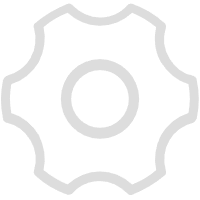
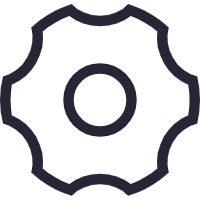
theme

Changed region(s): [[0.0, 0.0, 1.0, 0.99], [0.3, 0.27, 0.72, 0.69]]

diff --git a/src/views/home/index.vue b/src/views/home/index.vue
@@ -251,7 +251,7 @@ export default {
         this.isThree = 1;
       }
       if (!this.ros.isConnected) {
-        this.isShow = 0;
+        // this.isShow = 0;
         this.$message.error('The robot is not connected. Please check the connection status before proceeding.');
       }
     },
@@ -591,12 +591,15 @@ export default {
       justify-content: center;
       align-items: center;
       cursor: pointer;
-      background: rgba(255, 255, 255, 0.103);
+      // background: rgba(0, 0, 0, 0.075);
+      background: #cccccc30;
+      // background: rgba(255, 255, 255, 0.103);
       border-radius: 5px;
       margin: 1px;
 
       &:hover {
-        background: rgba(255, 255, 255, 0.164);
+        background: #cccccc50;
+        // background: rgba(255, 255, 255, 0.164);
       }
 
       i {
@@ -788,6 +791,7 @@ export default {
   width: 100%;
   height: 250px;
   z-index: 1000;
+  color: #e9e9e9;
 
   .el-icon-close {
     position: absolute;

diff --git a/src/App.vue b/src/App.vue
@@ -145,7 +145,7 @@ export default {
     connect() {
       var _this = this;
       this.ros = new ROSLIB.Ros({ url: "ws://" + this.ip + ":9090" });
-      //  this.ros = new ROSLIB.Ros({ url: "ws://192.168.8.25:9090" }); // 服务器
+      //  this.ros = new ROSLIB.Ros({ url: "ws://192.168.8.40:9090" }); // 服务器
       // this.ros = new ROSLIB.Ros({ url: "ws://10.168.5.247:9090" }); 
 
       this.$store.dispatch("ros/getRos", this.ros);
@@ -345,7 +345,7 @@ export default {
   background-size: cover;
 } */
 
-#app {
+/* #app { */
   /* position: absolute;
   top: 0;
   left: 0;
@@ -354,6 +354,6 @@ export default {
   background: rgba(255, 255, 255, 0.123);
   -webkit-backdrop-filter: blur(15px);
   backdrop-filter: blur(15px); */
-  color: #dddddd;
-}
+  /* color: #dddddd; */
+/* } */
 </style>

diff --git a/src/views/layout/index.vue b/src/views/layout/index.vue
@@ -101,11 +101,16 @@ export default {
 }
 
 .el-menu.el-menu--horizontal {
+  
   border-bottom: solid 1px #66b1ff !important;
+  a{
+    color: #0e0e0eec !important;
+  }
 }
 
 .el-menu--horizontal>.el-menu-item:not(.is-disabled):focus, .el-menu--horizontal>.el-menu-item:not(.is-disabled):hover, .el-menu--horizontal>.el-submenu .el-submenu__title:hover {
-    background-color: #ffffff85 !important;
+    background-color: #3994fc85 !important;
+    // background-color: #222222 !important;
 }
 .el-drawer__header {
   font-size: 18px;

diff --git a/src/store/modules/setting.js b/src/store/modules/setting.js
@@ -5,7 +5,9 @@ const state = {
   tagShow: getCache('TAG_SHOW') == null ? true : getCache('TAG_SHOW'),
   settingVisible: false,
   layout: getCache('LAYOUT') || 'inline',
-  theme: getCache('THEME') || 'black'
+  // theme: getCache('THEME') || 'black',
+  theme: getCache('THEME') || 'white'
+  // theme: getCache('THEME') || 'light'
 };
 
 const mutations = {

diff --git a/src/views/configure/ros_paramcfg.vue b/src/views/configure/ros_paramcfg.vue
@@ -393,7 +393,8 @@ export default {
   margin: 15px auto;
   padding: 30px 40px;
   border-radius: 5px;
-  background: #cccccc10;
+  // background: #cccccc10;
+  background: #cccccc30;
   // box-shadow: 5px 5px 20px #64646499;
   box-shadow: 0px 0px 10px #7f7f7f69;
   overflow: hidden;
